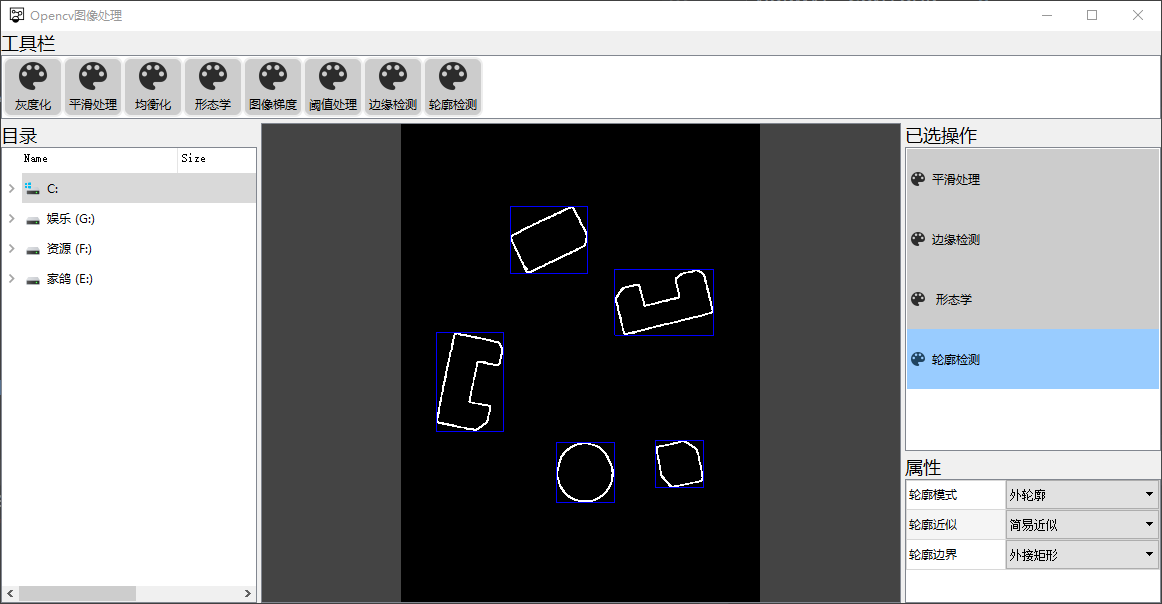
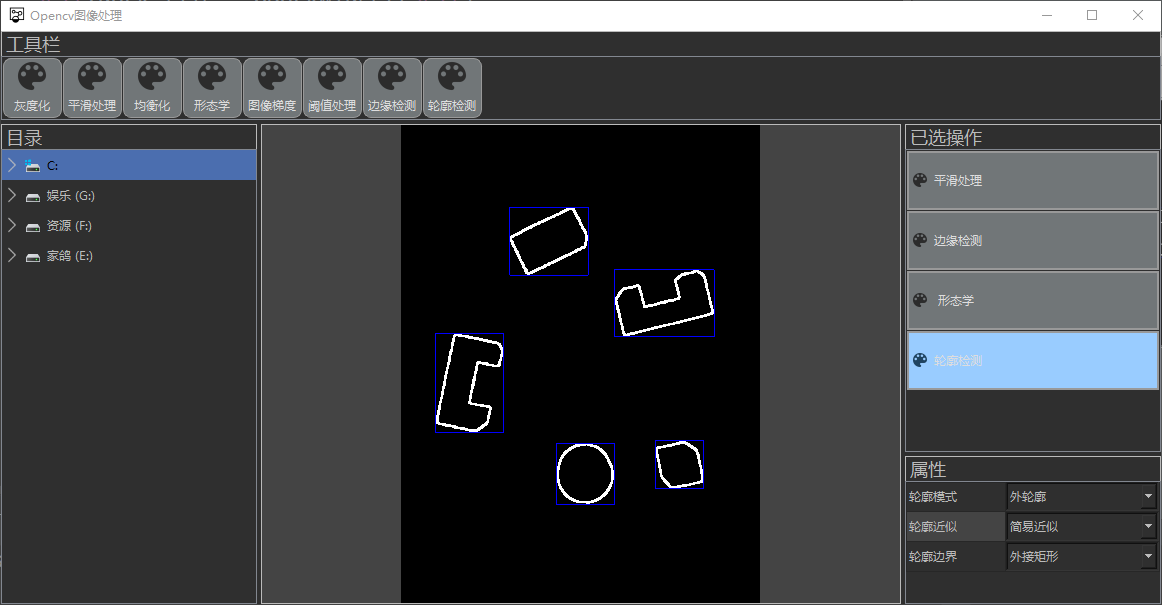
update qss

diff --git a/custom/treeView.py b/custom/treeView.py
@@ -2,6 +2,7 @@ import cv2
 import numpy as np
 
 from PyQt5.QtWidgets import *
+from PyQt5.QtCore import *
 
 
 class FileSystemTreeView(QTreeView, QDockWidget):
@@ -11,31 +12,23 @@ class FileSystemTreeView(QTreeView, QDockWidget):
         self.fileSystemModel = QFileSystemModel()
         self.fileSystemModel.setRootPath('.')
         self.setModel(self.fileSystemModel)
+        # 隐藏size,date等列
+        self.setColumnWidth(0, 200)
+        self.setColumnHidden(1, True)
+        self.setColumnHidden(2, True)
+        self.setColumnHidden(3, True)
+        # 不显示标题栏
+        self.header().hide()
+        # 设置动画
         self.setAnimated(True)
+        # 选中不显示虚线
+        self.setFocusPolicy(Qt.NoFocus)
         self.doubleClicked.connect(self.select_image)
         self.setMinimumWidth(200)
-        # self.setStyleSheet(
-        #     """
-        #     QTreeView{
-        #     show-decoration-selected: 1;
-        #     }
-        #     QTreeView::item {
-        #     height: 30px;
-        #     }
-        #     QTreeView::branch:has-children:!has-siblings:closed,
-        #     QTreeView::branch:closed:has-children:has-siblings {
-        #     border-image: none;
-        #     }
-        #
-        #     QTreeView::branch:open:has-children:!has-siblings,
-        #     QTreeView::branch:open:has-children:has-siblings  {
-        #     border-image: none;
-        #     }
-        #     """)
-        # self.show()
 
     def select_image(self, file_index):
         file_name = self.fileSystemModel.filePath(file_index)
         if file_name.endswith(('.jpg', '.png', '.bmp')):
             src_img = cv2.imdecode(np.fromfile(file_name, dtype=np.uint8), -1)
             self.mainwindow.change_image(src_img)
+

diff --git a/custom/tableWidget.py b/custom/tableWidget.py
@@ -1,4 +1,5 @@
 from PyQt5.QtWidgets import *
+from PyQt5.QtCore import *
 
 
 class TableWidget(QTableWidget):
@@ -13,6 +14,7 @@ class TableWidget(QTableWidget):
         self.horizontalHeader().sectionResizeMode(QHeaderView.Stretch)
         self.verticalHeader().sectionResizeMode(QHeaderView.Stretch)
         self.horizontalHeader().setStretchLastSection(True)
+        self.setFocusPolicy(Qt.NoFocus)
 
     def signal_connect(self):
         for spinbox in self.findChildren(QSpinBox):
